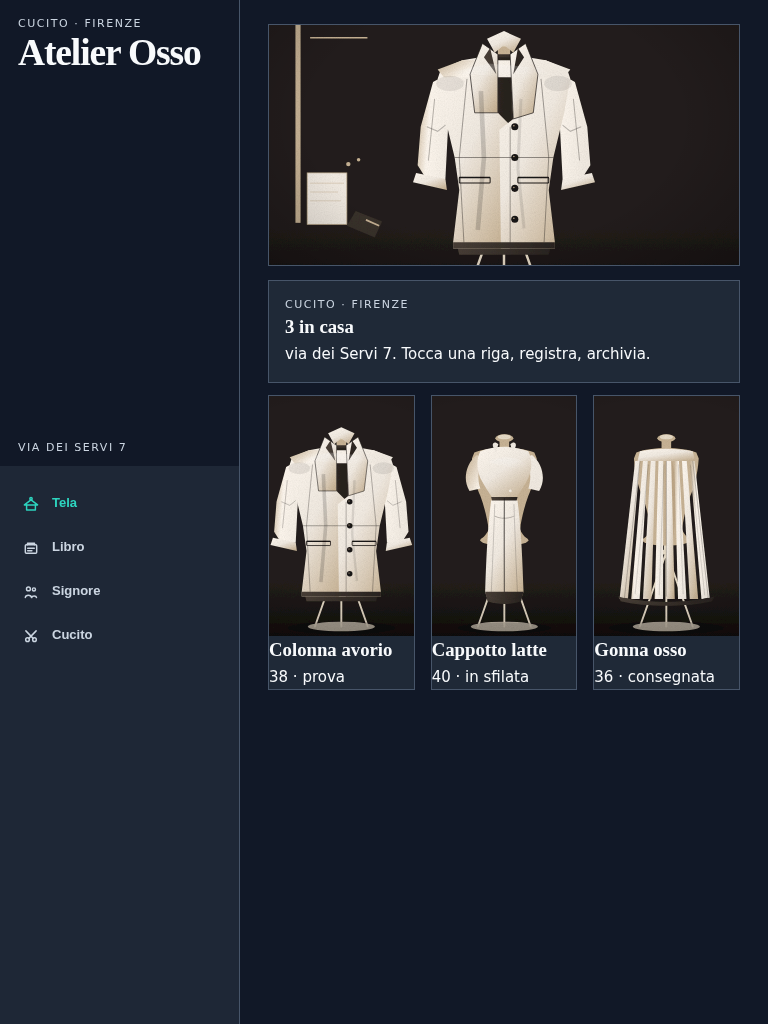
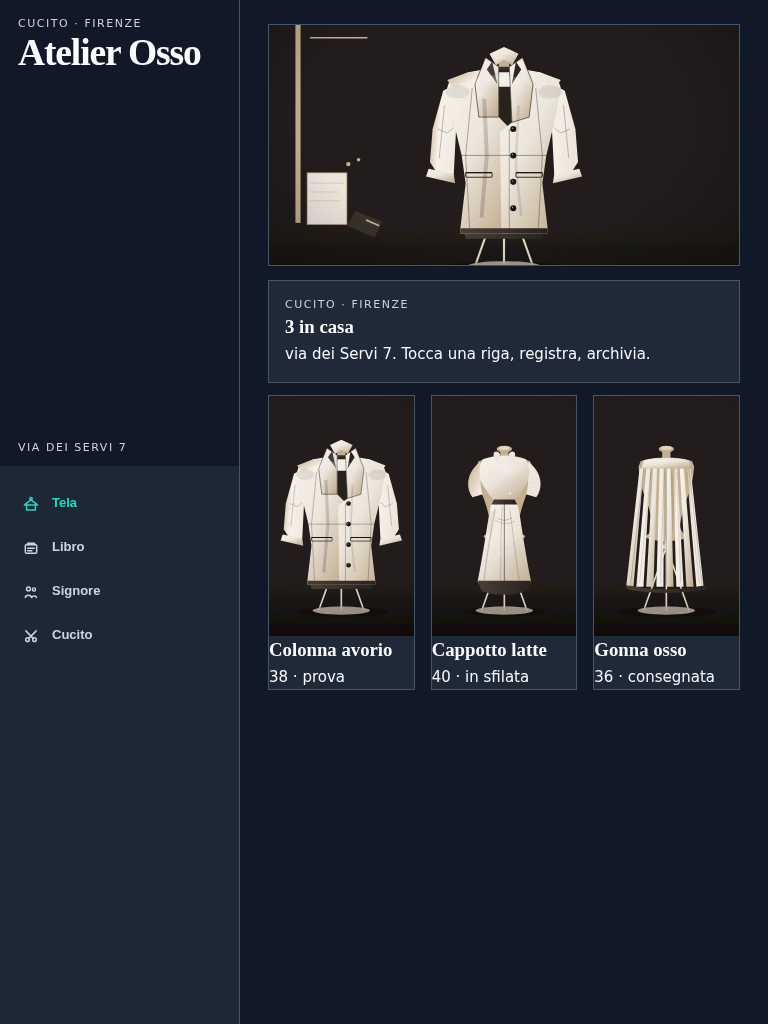
feat: add sartorial drape, terraced olivo and title crop gates
Trousers hang with seat, folds and a real leg gap instead of two bars.
The dress flares at the hip. Olivo is a grove on stone terraces, not a
lollipop canopy. Look titles sit below the sil. Gates fail the 5c3e976
canopy path and bar-legs without claiming photography or Emergent parity.

diff --git a/src/lib/ai/domain-imagery.ts b/src/lib/ai/domain-imagery.ts
@@ -56,6 +56,8 @@ export const GEOMETRIC_REGRESSIONS: RegExp[] = [
   /v210c0 16-8 24-20 24s-22-8-22-24V186/,
   /c20-28 70-40 110-18 16 10 8 28-8 34/,
   /M250 210c-20-36 8-70 46-74 36-4 70 22/,
+  /M214 176 C198 148 224 108 268 118/,
+  /C276 86 328 74 364 108 C408 96 428 138 396 164/,
 ];
 
 export type MaterialSignature = {
@@ -230,24 +232,27 @@ function columnDress(cx: number, s: number, ink: boolean): string {
   const fold = ink ? "#000" : "#fff";
   return `${dressForm(cx, ink)}
   <g data-part="garment" data-garment="dress">
-    <path data-part="sleeve" d="M${cx - 46} 108 C${cx - 64} 122 ${cx - 70} 150 ${cx - 58} 168 L${cx - 40} 164 C${cx - 46} 146 ${cx - 44} 124 ${cx - 32} 114Z M${cx + 46} 108 C${cx + 64} 122 ${cx + 70} 150 ${cx + 58} 168 L${cx + 40} 164 C${cx + 46} 146 ${cx + 44} 124 ${cx + 32} 114Z" fill="url(#slv${s})"/>
-    <path data-part="bodice" d="M${cx - 40} 102 C${cx - 48} 118 ${cx - 46} 138 ${cx - 36} 154 C${cx - 28} 168 ${cx - 22} 176 ${cx - 20} 180 L${cx + 20} 180 C${cx + 22} 176 ${cx + 28} 168 ${cx + 36} 154 C${cx + 46} 138 ${cx + 48} 118 ${cx + 40} 102 C${cx + 16} 92 ${cx - 16} 92 ${cx - 40} 102Z" fill="url(#fab${s})"/>
-    <path d="M${cx - 18} 96 C${cx - 22} 88 ${cx - 16} 84 ${cx - 10} 90 L${cx - 14} 104Z M${cx + 18} 96 C${cx + 22} 88 ${cx + 16} 84 ${cx + 10} 90 L${cx + 14} 104Z" fill="${strap}"/>
-    <path data-part="waist" d="M${cx - 22} 178 L${cx + 22} 178 L${cx + 20} 186 L${cx - 20} 186Z" fill="url(#lin${s})"/>
-    <path data-part="column" d="M${cx - 22} 184 C${cx - 28} 230 ${cx - 30} 280 ${cx - 32} 336 L${cx - 28} 348 L${cx - 14} 344 L${cx} 348 L${cx + 14} 344 L${cx + 28} 348 L${cx + 32} 336 C${cx + 30} 280 ${cx + 28} 230 ${cx + 22} 184Z" fill="url(#fab${s})"/>
-    <g data-part="fold" fill="none" stroke="${fold}" stroke-width="1.3" opacity=".22">
-      <path d="M${cx - 16} 190 C${cx - 18} 250 ${cx - 20} 300 ${cx - 22} 340"/>
-      <path d="M${cx} 186 C${cx - 2} 250 ${cx} 300 ${cx} 346"/>
-      <path d="M${cx + 16} 190 C${cx + 18} 250 ${cx + 20} 300 ${cx + 22} 340"/>
+    <path data-part="sleeve" d="M${cx - 48} 106 C${cx - 70} 122 ${cx - 78} 152 ${cx - 62} 174 L${cx - 42} 168 C${cx - 50} 148 ${cx - 46} 124 ${cx - 34} 112Z M${cx + 48} 106 C${cx + 70} 122 ${cx + 78} 152 ${cx + 62} 174 L${cx + 42} 168 C${cx + 50} 148 ${cx + 46} 124 ${cx + 34} 112Z" fill="url(#slv${s})"/>
+    <path data-part="bodice" d="M${cx - 42} 100 C${cx - 52} 118 ${cx - 50} 140 ${cx - 38} 156 C${cx - 28} 172 ${cx - 22} 178 ${cx - 18} 182 L${cx + 18} 182 C${cx + 22} 178 ${cx + 28} 172 ${cx + 38} 156 C${cx + 50} 140 ${cx + 52} 118 ${cx + 42} 100 C${cx + 16} 90 ${cx - 16} 90 ${cx - 42} 100Z" fill="url(#fab${s})"/>
+    <path d="M${cx - 20} 96 C${cx - 24} 86 ${cx - 16} 80 ${cx - 8} 90 L${cx - 14} 106Z M${cx + 20} 96 C${cx + 24} 86 ${cx + 16} 80 ${cx + 8} 90 L${cx + 14} 106Z" fill="${strap}"/>
+    <path data-part="waist" d="M${cx - 20} 178 L${cx + 20} 178 L${cx + 26} 190 L${cx - 26} 190Z" fill="url(#lin${s})"/>
+    <path data-part="column" d="M${cx - 26} 188 C${cx - 34} 230 ${cx - 40} 278 ${cx - 52} 338 L${cx - 40} 352 L${cx - 16} 346 L${cx} 354 L${cx + 16} 346 L${cx + 40} 352 L${cx + 52} 338 C${cx + 40} 278 ${cx + 34} 230 ${cx + 26} 188Z" fill="url(#fab${s})"/>
+    <path data-part="hip" d="M${cx - 28} 200 C${cx - 36} 230 ${cx - 32} 250 ${cx - 24} 258 L${cx + 24} 258 C${cx + 32} 250 ${cx + 36} 230 ${cx + 28} 200Z" fill="url(#slv${s})" opacity=".35"/>
+    <g data-part="fold">
+      <path d="M${cx - 18} 196 C${cx - 28} 250 ${cx - 36} 300 ${cx - 40} 342" fill="none" stroke="${fold}" stroke-width="2.4" opacity=".18"/>
+      <path d="M${cx - 4} 192 C${cx - 8} 250 ${cx - 6} 310 ${cx - 8} 348" fill="none" stroke="${fold}" stroke-width="1.6" opacity=".2"/>
+      <path d="M${cx + 10} 194 C${cx + 18} 250 ${cx + 24} 305 ${cx + 30} 344" fill="none" stroke="${fold}" stroke-width="2" opacity=".16"/>
+      <path d="M${cx + 20} 220 C${cx + 8} 228 ${cx - 8} 226 ${cx - 18} 218" fill="none" stroke="${stitch}" stroke-width="1" opacity=".35"/>
+      <path d="M${cx - 22} 280 C${cx - 10} 292 ${cx + 12} 288 ${cx + 24} 276" fill="url(#slv${s})" opacity=".2"/>
     </g>
-    <path data-part="seam" d="M${cx} 180 v166" fill="none" stroke="${stitch}" stroke-width="1"/>
-    <path d="M${cx - 16} 210 C${cx} 218 ${cx + 16} 210 ${cx + 16} 210" fill="none" stroke="${stitch}" stroke-width="1" opacity=".45"/>
-    <path data-part="hem" d="M${cx - 32} 336 L${cx - 28} 352 C${cx - 10} 358 ${cx + 10} 358 ${cx + 28} 352 L${cx + 32} 336Z" fill="url(#lin${s})"/>
-    <path data-part="lining" d="M${cx - 26} 344 C${cx - 8} 352 ${cx + 8} 352 ${cx + 26} 344" fill="none" stroke="url(#lin${s})" stroke-width="3"/>
-    ${[168, 196, 224].map((y) => `<circle cx="${cx + 10}" cy="${y}" r="2.3" fill="${strap}"/>`).join("")}
-    <path d="M${cx - 28} 120 C${cx} 104 ${cx + 36} 112 ${cx + 44} 136" fill="url(#she${s})"/>
+    <path data-part="seam" d="M${cx} 182 v166" fill="none" stroke="${stitch}" stroke-width="1"/>
+    <path d="M${cx - 14} 214 C${cx} 224 ${cx + 14} 214 ${cx + 14} 214" fill="none" stroke="${stitch}" stroke-width="1" opacity=".45"/>
+    <path data-part="hem" d="M${cx - 52} 336 L${cx - 44} 356 C${cx - 16} 366 ${cx + 16} 366 ${cx + 44} 356 L${cx + 52} 336Z" fill="url(#lin${s})"/>
+    <path data-part="lining" d="M${cx - 40} 348 C${cx - 12} 360 ${cx + 12} 360 ${cx + 40} 348" fill="none" stroke="url(#lin${s})" stroke-width="3.4"/>
+    ${[166, 198, 228].map((y) => `<circle cx="${cx + 11}" cy="${y}" r="2.4" fill="${strap}"/>`).join("")}
+    <path d="M${cx - 30} 118 C${cx} 100 ${cx + 38} 110 ${cx + 48} 138" fill="url(#she${s})"/>
   </g>
-  <ellipse cx="${cx}" cy="396" rx="78" ry="9" fill="#000" opacity=".18"/>`;
+  <ellipse cx="${cx}" cy="396" rx="82" ry="9" fill="#000" opacity=".18"/>`;
 }
 
 function hangTrousers(cx: number, s: number, ink: boolean): string {
@@ -255,34 +260,49 @@ function hangTrousers(cx: number, s: number, ink: boolean): string {
   const wood = ink ? "#e8dcc8" : "#3a322c";
   const stitch = ink ? "#1a1614" : "#c9b496";
   const fold = ink ? "#000" : "#fff";
+  const shadow = ink ? "#000" : "#1a1614";
   return `<g data-part="garment" data-garment="trousers">
     <g data-part="hanger">
-      <path d="M${cx} 42 C${cx + 18} 28 ${cx + 28} 44 ${cx + 22} 58" fill="none" stroke="${hook}" stroke-width="3.4" stroke-linecap="round"/>
-      <path d="M${cx - 78} 70 L${cx} 58 L${cx + 78} 70 L${cx + 70} 82 H${cx - 70}Z" fill="${wood}"/>
-      <path d="M${cx - 70} 82 H${cx + 70}" stroke="${hook}" stroke-width="1.2" opacity=".4"/>
+      <path d="M${cx} 36 C${cx + 16} 22 ${cx + 30} 40 ${cx + 22} 56" fill="none" stroke="${hook}" stroke-width="3.6" stroke-linecap="round"/>
+      <path d="M${cx - 92} 72 L${cx} 54 L${cx + 92} 72 L${cx + 80} 88 H${cx - 80}Z" fill="${wood}"/>
+      <path d="M${cx - 70} 78 L${cx} 64 L${cx + 70} 78" fill="none" stroke="${hook}" stroke-width="1.2" opacity=".35"/>
+      <path d="M${cx - 80} 88 H${cx + 80}" stroke="${shadow}" stroke-width="2" opacity=".2"/>
     </g>
-    <path data-part="waistband" d="M${cx - 58} 84 H${cx + 58} V102 C${cx + 36} 108 ${cx + 16} 110 ${cx} 110 C${cx - 16} 110 ${cx - 36} 108 ${cx - 58} 102Z" fill="url(#fab${s})"/>
-    ${[-46, -24, -6, 6, 24, 46].map((dx) => `<rect x="${cx + dx - 2}" y="88" width="4" height="12" rx="0.8" fill="${hook}" opacity=".75"/>`).join("")}
-    <path data-part="fly" d="M${cx} 102 V142 C${cx - 4} 148 ${cx - 8} 152 ${cx - 12} 154" fill="none" stroke="${stitch}" stroke-width="1.2"/>
+    <path data-part="waistband" d="M${cx - 70} 86 H${cx + 70} V108 C${cx + 42} 118 ${cx + 18} 122 ${cx} 122 C${cx - 18} 122 ${cx - 42} 118 ${cx - 70} 108Z" fill="url(#fab${s})"/>
+    <path d="M${cx - 70} 86 H${cx + 70} V94 H${cx - 70}Z" fill="url(#slv${s})" opacity=".55"/>
+    ${[-56, -34, -12, 12, 34, 56].map((dx) => `<rect x="${cx + dx - 2.4}" y="90" width="4.8" height="14" rx="0.8" fill="${hook}" opacity=".8"/>`).join("")}
+    <path data-part="seat" d="M${cx - 68} 108 C${cx - 74} 128 ${cx - 70} 148 ${cx - 54} 168 C${cx - 28} 186 ${cx + 28} 186 ${cx + 54} 168 C${cx + 70} 148 ${cx + 74} 128 ${cx + 68} 108 C${cx + 40} 120 ${cx - 40} 120 ${cx - 68} 108Z" fill="url(#fab${s})"/>
+    <path d="M${cx - 40} 124 C${cx - 20} 148 ${cx + 20} 148 ${cx + 40} 124" fill="none" stroke="${stitch}" stroke-width="1.1" opacity=".45"/>
+    <path data-part="fly" d="M${cx} 108 V150 C${cx - 6} 158 ${cx - 12} 164 ${cx - 16} 168" fill="none" stroke="${stitch}" stroke-width="1.3"/>
     <g data-part="leg">
-      <path d="M${cx - 56} 104 C${cx - 54} 112 ${cx - 40} 118 ${cx - 18} 120 L${cx - 16} 168 C${cx - 18} 220 ${cx - 22} 280 ${cx - 20} 336 L${cx - 24} 352 H${cx - 62} L${cx - 58} 336 C${cx - 64} 270 ${cx - 70} 200 ${cx - 62} 148 C${cx - 60} 128 ${cx - 58} 112 ${cx - 56} 104Z" fill="url(#fab${s})"/>
-      <path data-part="crease" d="M${cx - 38} 122 C${cx - 40} 200 ${cx - 42} 280 ${cx - 40} 340" fill="none" stroke="${stitch}" stroke-width="1.15"/>
-      <path data-part="cuff" d="M${cx - 64} 348 H${cx - 18} V360 H${cx - 64}Z" fill="url(#lin${s})"/>
-      <path data-part="fold" d="M${cx - 54} 180 C${cx - 48} 188 ${cx - 42} 186 ${cx - 36} 178" fill="none" stroke="${fold}" stroke-width="1.2" opacity=".2"/>
+      <path d="M${cx - 68} 108 C${cx - 72} 130 ${cx - 64} 150 ${cx - 52} 168 L${cx - 18} 176 C${cx - 22} 230 ${cx - 28} 286 ${cx - 22} 340 L${cx - 30} 358 H${cx - 78} L${cx - 70} 340 C${cx - 84} 270 ${cx - 90} 210 ${cx - 78} 160 C${cx - 74} 136 ${cx - 70} 118 ${cx - 68} 108Z" fill="url(#fab${s})"/>
+      <path d="M${cx - 62} 170 C${cx - 70} 220 ${cx - 66} 280 ${cx - 58} 336" fill="${shadow}" opacity=".12"/>
+      <path data-part="crease" d="M${cx - 44} 172 C${cx - 46} 230 ${cx - 50} 290 ${cx - 46} 346" fill="none" stroke="${stitch}" stroke-width="1.25"/>
+      <path data-part="drape" d="M${cx - 74} 210 C${cx - 62} 218 ${cx - 50} 214 ${cx - 40} 204" fill="none" stroke="${fold}" stroke-width="2.2" opacity=".22"/>
+      <path d="M${cx - 76} 268 C${cx - 60} 280 ${cx - 46} 274 ${cx - 36} 262" fill="url(#slv${s})" opacity=".25"/>
+      <path data-part="cuff" d="M${cx - 80} 350 H${cx - 24} V366 H${cx - 80}Z" fill="url(#lin${s})"/>
+      <path d="M${cx - 78} 358 H${cx - 28}" stroke="${stitch}" stroke-width="1" opacity=".4"/>
     </g>
     <g data-part="leg">
-      <path d="M${cx + 56} 104 C${cx + 54} 112 ${cx + 40} 118 ${cx + 18} 120 L${cx + 16} 168 C${cx + 18} 220 ${cx + 22} 280 ${cx + 20} 336 L${cx + 24} 352 H${cx + 62} L${cx + 58} 336 C${cx + 64} 270 ${cx + 70} 200 ${cx + 62} 148 C${cx + 60} 128 ${cx + 58} 112 ${cx + 56} 104Z" fill="url(#fab${s})"/>
-      <path data-part="crease" d="M${cx + 38} 122 C${cx + 40} 200 ${cx + 42} 280 ${cx + 40} 340" fill="none" stroke="${stitch}" stroke-width="1.15"/>
-      <path data-part="cuff" d="M${cx + 18} 348 H${cx + 64} V360 H${cx + 18}Z" fill="url(#lin${s})"/>
-      <path data-part="fold" d="M${cx + 54} 180 C${cx + 48} 188 ${cx + 42} 186 ${cx + 36} 178" fill="none" stroke="${fold}" stroke-width="1.2" opacity=".2"/>
+      <path d="M${cx + 68} 108 C${cx + 72} 130 ${cx + 64} 150 ${cx + 52} 168 L${cx + 18} 176 C${cx + 22} 230 ${cx + 28} 286 ${cx + 22} 340 L${cx + 30} 358 H${cx + 78} L${cx + 70} 340 C${cx + 84} 270 ${cx + 90} 210 ${cx + 78} 160 C${cx + 74} 136 ${cx + 70} 118 ${cx + 68} 108Z" fill="url(#fab${s})"/>
+      <path d="M${cx + 40} 176 C${cx + 48} 230 ${cx + 52} 290 ${cx + 46} 336" fill="${shadow}" opacity=".1"/>
+      <path data-part="crease" d="M${cx + 44} 172 C${cx + 46} 230 ${cx + 50} 290 ${cx + 46} 346" fill="none" stroke="${stitch}" stroke-width="1.25"/>
+      <path data-part="drape" d="M${cx + 74} 210 C${cx + 62} 218 ${cx + 50} 214 ${cx + 40} 204" fill="none" stroke="${fold}" stroke-width="2.2" opacity=".22"/>
+      <path d="M${cx + 76} 268 C${cx + 60} 280 ${cx + 46} 274 ${cx + 36} 262" fill="url(#slv${s})" opacity=".25"/>
+      <path data-part="cuff" d="M${cx + 24} 350 H${cx + 80} V366 H${cx + 24}Z" fill="url(#lin${s})"/>
+      <path d="M${cx + 28} 358 H${cx + 78}" stroke="${stitch}" stroke-width="1" opacity=".4"/>
     </g>
+    <path d="M${cx - 8} 168 C${cx} 210 ${cx} 260 ${cx} 300" fill="none" stroke="${shadow}" stroke-width="10" opacity=".08"/>
     <g data-part="pocket">
-      <path d="M${cx - 52} 126 h20 v26 h-20z" fill="none" stroke="${stitch}" stroke-width="1"/>
-      <path d="M${cx + 32} 126 h20 v26 h-20z" fill="none" stroke="${stitch}" stroke-width="1"/>
+      <path d="M${cx - 62} 128 h24 v30 h-24z" fill="none" stroke="${stitch}" stroke-width="1.15"/>
+      <path d="M${cx + 38} 128 h24 v30 h-24z" fill="none" stroke="${stitch}" stroke-width="1.15"/>
+      <path d="M${cx - 62} 128 h24" stroke="${stitch}" stroke-width="2"/>
+      <path d="M${cx + 38} 128 h24" stroke="${stitch}" stroke-width="2"/>
     </g>
-    <path data-part="seam" d="M${cx - 12} 110 C${cx - 8} 128 ${cx - 16} 148 ${cx - 18} 160 M${cx + 12} 110 C${cx + 8} 128 ${cx + 16} 148 ${cx + 18} 160" fill="none" stroke="${stitch}" stroke-width="1"/>
+    <path data-part="seam" d="M${cx - 16} 118 C${cx - 10} 140 ${cx - 20} 160 ${cx - 22} 174 M${cx + 16} 118 C${cx + 10} 140 ${cx + 20} 160 ${cx + 22} 174" fill="none" stroke="${stitch}" stroke-width="1.05"/>
+    <path d="M${cx - 40} 100 C${cx} 88 ${cx + 48} 98 ${cx + 64} 118" fill="url(#she${s})"/>
   </g>
-  <ellipse cx="${cx}" cy="372" rx="108" ry="11" fill="#000" opacity=".14"/>`;
+  <ellipse cx="${cx}" cy="378" rx="118" ry="12" fill="#000" opacity=".16"/>`;
 }
 
 function skirtOnForm(cx: number, s: number, ink: boolean): string {
@@ -335,7 +355,7 @@ function fashionArt(variant: 0 | 1, slot: number, alt: string): string {
             ? hangTrousers(320, s, ink)
             : skirtOnForm(320, s, ink)
           : coatOnForm(320, s, ink);
-  const framed = `<g transform="translate(320 205) scale(1.05) translate(-320 -205)">${subject}</g>`;
+  const framed = `<g transform="translate(320 208) scale(0.9) translate(-320 -208)">${subject}</g>`;
   return wrap(id, alt, `${set}${framed}`, s, defs);
 }
 
@@ -646,26 +666,49 @@ function scenePozzo(): string {
 
 function sceneOlivo(): string {
   return `<g data-part="scene" data-scene="olivo">
-    <rect width="640" height="420" fill="#c9b496"/>
-    <rect y="0" width="640" height="210" fill="#e4d4b4"/>
-    <circle cx="520" cy="70" r="28" fill="#f3efe6" opacity=".55"/>
-    <path d="M0 250 C80 220 180 240 280 230 C400 216 500 250 640 236 V420 H0Z" fill="#6a7a4a"/>
-    <path d="M0 310 C120 290 240 320 400 300 C500 288 580 310 640 304 V420 H0Z" fill="#4a5a32"/>
-    <g data-part="trunk">
-      <path d="M292 400 C286 340 300 280 308 230 C300 200 288 170 296 140" fill="none" stroke="#3a322c" stroke-width="18" stroke-linecap="round"/>
-      <path d="M308 230 C330 210 350 240 346 270" fill="none" stroke="#2a2420" stroke-width="10" stroke-linecap="round"/>
-      <path d="M296 160 C270 150 250 170 246 196" fill="none" stroke="#3a322c" stroke-width="8" stroke-linecap="round"/>
-      <path d="M300 148 C310 120 340 110 360 128" fill="none" stroke="#2a2420" stroke-width="7" stroke-linecap="round"/>
+    <rect width="640" height="420" fill="#d8c4a0"/>
+    <rect y="0" width="640" height="168" fill="#e8d4b0"/>
+    <path d="M0 0 L220 0 L0 140Z" fill="#f4e0b0" opacity=".35"/>
+    <ellipse cx="528" cy="64" r="36" fill="#f6ead8" opacity=".55"/>
+    <g data-part="grove">
+      <path d="M0 150 C80 128 160 148 240 136 C340 122 430 150 640 130 V250 H0Z" fill="#6a7a48"/>
+      <path d="M40 128 C90 96 150 108 186 128 C160 148 90 150 40 128Z" fill="#3d5a28"/>
+      <path d="M200 118 C250 82 330 90 368 124 C340 146 250 148 200 118Z" fill="#4a6a30"/>
+      <path d="M360 122 C420 86 510 96 560 128 C520 150 430 148 360 122Z" fill="#2c4a18"/>
+      <path d="M520 116 C560 88 620 98 640 118 V150 C600 148 560 140 520 116Z" fill="#3d5a28"/>
+      <path d="M80 138 C110 114 150 118 168 136 C150 148 110 150 80 138Z" fill="#5a7a32" opacity=".85"/>
+      <path d="M280 130 C318 104 360 110 380 130 C360 146 318 148 280 130Z" fill="#6a8a40" opacity=".8"/>
+      <path d="M0 186 C120 168 240 190 360 176 C480 162 560 186 640 174 V260 H0Z" fill="#4a5a32"/>
     </g>
-    <g data-part="canopy">
-      <path d="M214 176 C198 148 224 108 268 118 C276 86 328 74 364 108 C408 96 428 138 396 164 C432 176 416 214 368 204 C344 228 286 230 248 206 C216 220 196 200 214 176Z" fill="#2c4a18"/>
-      <path d="M236 158 C228 132 258 112 292 122 C310 98 354 102 368 128 C392 124 402 150 382 166 C360 188 300 192 262 176 C244 186 230 176 236 158Z" fill="#3d5a1f"/>
-      <path d="M250 132 C246 112 276 96 308 108 C336 92 368 108 362 132 C348 150 300 154 272 142 C258 150 248 144 250 132Z" fill="#4a6a28"/>
-      <path d="M220 186 C212 170 236 160 258 168 C248 186 228 196 220 186Z" fill="#5a7a32" opacity=".9"/>
-      <path d="M352 186 C344 168 376 160 390 176 C382 194 360 198 352 186Z" fill="#2c4a18" opacity=".85"/>
+    <g data-part="trunk" fill="none" stroke="#3a2a1c" stroke-linecap="round">
+      <path d="M96 250 C92 210 100 176 94 150" stroke-width="7"/>
+      <path d="M188 248 C184 206 176 168 182 142" stroke-width="6"/>
+      <path d="M268 246 C274 204 266 170 270 146" stroke-width="8"/>
+      <path d="M356 250 C350 208 360 172 348 144" stroke-width="7"/>
+      <path d="M454 248 C460 206 448 168 456 140" stroke-width="6"/>
+      <path d="M546 252 C540 214 552 176 544 148" stroke-width="5"/>
     </g>
-    <path d="M40 340 C90 320 140 350 190 338 C240 326 280 350 320 340" fill="none" stroke="#3a322c" stroke-width="2" opacity=".25"/>
-    <path d="M80 360 C70 340 90 330 100 350" fill="none" stroke="#5a6a40" stroke-width="2" opacity=".4"/>
+    <g data-part="terrace">
+      <path d="M0 248 L640 236 V420 H0Z" fill="#c4b090"/>
+      <path d="M0 292 L640 274 V420 H0Z" fill="#b8a078"/>
+      <path d="M0 248 L640 236 V268 L0 282Z" fill="#d8c4a0"/>
+      <path d="M0 292 L640 274 V304 L0 322Z" fill="#9a8866"/>
+      <g fill="none" stroke="#6a5e52" stroke-width="1.2" opacity=".45">
+        <path d="M0 262 L640 248"/>
+        <path d="M0 308 L640 290"/>
+        <path d="M80 248 v34M180 246 v38M300 244 v42M430 242 v44M540 240 v46"/>
+      </g>
+      <path d="M0 338 C90 324 180 346 280 332 C400 316 520 340 640 326 V420 H0Z" fill="#8a7a5a"/>
+      <path d="M40 360 C70 348 110 352 130 366 C110 378 70 376 40 360Z" fill="#6a5e52" opacity=".5"/>
+      <path d="M400 370 C440 354 500 358 540 374 C500 388 440 386 400 370Z" fill="#6a5e52" opacity=".4"/>
+    </g>
+    <g data-part="vessel">
+      <ellipse cx="148" cy="392" rx="36" ry="10" fill="#000" opacity=".18"/>
+      <path d="M124 360 C118 378 128 392 148 392 C168 392 178 378 172 360 Z" fill="#9a4a28"/>
+      <ellipse cx="148" cy="360" rx="24" ry="8" fill="#6a3220"/>
+      <ellipse cx="148" cy="358" rx="16" ry="5" fill="#c47848" opacity=".5"/>
+    </g>
+    <path d="M0 0 L180 0 L0 120Z" fill="#f4e0b0" opacity=".2"/>
   </g>`;
 }
 
@@ -779,11 +822,14 @@ function editorialArt(variant: 0 | 1, slot: number, alt: string): string {
   }
   if (s === 3) {
     const clips = `${analog}<clipPath id="cs0${s}"><rect x="40" y="40" width="270" height="176"/></clipPath><clipPath id="cs1${s}"><rect x="330" y="40" width="270" height="176"/></clipPath><clipPath id="cs2${s}"><rect x="40" y="236" width="270" height="148"/></clipPath><clipPath id="cs3${s}"><rect x="330" y="236" width="270" height="148"/></clipPath>`;
-    return wrap(id, alt, `<rect width="640" height="420" fill="#e8e0d2"/>${sprockets()}
-      <g clip-path="url(#cs0${s})"><g transform="translate(40 40) scale(0.42)">${scenePozzo()}</g></g><rect x="40" y="40" width="270" height="176" fill="none" stroke="#ddd4c6"/>
-      <g clip-path="url(#cs1${s})"><g transform="translate(330 40) scale(0.42)">${sceneOlivo()}</g></g><rect x="330" y="40" width="270" height="176" fill="none" stroke="#ddd4c6"/>
-      <g clip-path="url(#cs2${s})"><g transform="translate(40 236) scale(0.42)">${sceneFienile()}</g></g><rect x="40" y="236" width="270" height="148" fill="none" stroke="#ddd4c6"/>
-      <g clip-path="url(#cs3${s})"><g transform="translate(330 236) scale(0.42)">${sceneTorchio()}</g></g><rect x="330" y="236" width="270" height="148" fill="none" stroke="#ddd4c6"/>
+    const rebate = (x: number, y: number, w: number, h: number) =>
+      `<g data-part="frame"><rect x="${x}" y="${y}" width="${w}" height="${h}" fill="none" stroke="#1a1814" stroke-width="2"/><rect x="${x + 8}" y="${y + h - 18}" width="28" height="10" fill="#1a1814"/><rect x="${x + w - 48}" y="${y + 8}" width="36" height="6" fill="#9a4a28"/></g>`;
+    return wrap(id, alt, `<rect width="640" height="420" fill="#d8cbb8"/>${sprockets()}
+      <rect x="24" y="24" width="592" height="372" fill="#1a1814"/>
+      <g clip-path="url(#cs0${s})"><g transform="translate(40 40) scale(0.42)">${scenePozzo()}</g></g>${rebate(40, 40, 270, 176)}
+      <g clip-path="url(#cs1${s})"><g transform="translate(330 40) scale(0.42)">${sceneOlivo()}</g></g>${rebate(330, 40, 270, 176)}
+      <g clip-path="url(#cs2${s})"><g transform="translate(40 236) scale(0.42)">${sceneFienile()}</g></g>${rebate(40, 236, 270, 148)}
+      <g clip-path="url(#cs3${s})"><g transform="translate(330 236) scale(0.42)">${sceneTorchio()}</g></g>${rebate(330, 236, 270, 148)}
       <path d="M40 400h560" stroke="#9a4a28" stroke-width="5"/>`, s, clips);
   }
   const clips = `<clipPath id="edc${s}"><rect x="36" y="36" width="380" height="288"/></clipPath>${analog}`;

diff --git a/src/lib/ai/compose-product-browser.test.ts b/src/lib/ai/compose-product-browser.test.ts
@@ -259,7 +259,34 @@ describe("graphic pipeline visual QA D/T/M", () => {
                   const title = el.querySelector("h2")?.textContent || "";
                   const garment = el.querySelector("[data-garment]")?.getAttribute("data-garment") || "";
                   const h2 = el.querySelector("h2")?.getBoundingClientRect();
-                  return { h: b.height, title, garment, titleH: h2?.height || 0, titleW: h2?.width || 0, top: b.top, left: b.left, right: b.right, bottom: b.bottom };
+                  const parts = [...el.querySelectorAll("[data-part]")].map((n) => n.getAttribute("data-part") || "");
+                  const legs = [...el.querySelectorAll("[data-part='leg']")].map((n) => {
+                    try {
+                      const box = (n as SVGGraphicsElement).getBBox();
+                      return { x: box.x, w: box.width };
+                    } catch {
+                      return { x: 0, w: 0 };
+                    }
+                  });
+                  const sil = el.querySelector(".sil")?.getBoundingClientRect();
+                  const svg = el.querySelector("svg")?.getBoundingClientRect();
+                  return {
+                    h: b.height,
+                    title,
+                    garment,
+                    parts,
+                    legs,
+                    titleH: h2?.height || 0,
+                    titleW: h2?.width || 0,
+                    titleTop: h2?.top || 0,
+                    silBottom: sil?.bottom || 0,
+                    silH: sil?.height || 0,
+                    svgH: svg?.height || 0,
+                    top: b.top,
+                    left: b.left,
+                    right: b.right,
+                    bottom: b.bottom,
+                  };
                 });
                 const tickets = [...document.querySelectorAll(".ticket")].map((el) => {
                   const title = el.querySelector("h2")?.textContent || "";
@@ -271,7 +298,8 @@ describe("graphic pipeline visual QA D/T/M", () => {
                   const title = el.querySelector("h2")?.textContent || "";
                   const scene = el.querySelector("[data-scene]")?.getAttribute("data-scene") || "";
                   const h2 = el.querySelector("h2")?.getBoundingClientRect();
-                  return { title, scene, titleH: h2?.height || 0, titleW: h2?.width || 0 };
+                  const parts = [...el.querySelectorAll("[data-part]")].map((n) => n.getAttribute("data-part") || "");
+                  return { title, scene, parts, titleH: h2?.height || 0, titleW: h2?.width || 0 };
                 });
                 let shoulderWaist = { shoulder: 0, waist: 0 };
                 const shoulder = svg.querySelector("[data-part='shoulder']") as SVGGraphicsElement | null;
@@ -356,6 +384,12 @@ describe("graphic pipeline visual QA D/T/M", () => {
                 const looks = material.looks || [];
                 for (const look of looks) {
                   assert.ok(look.titleH >= 14 && look.titleW >= 48, `${fix.id}/${vp} look title unreadable ${look.title} ${look.titleW}x${look.titleH}`);
+                  if (look.silBottom && look.titleTop) {
+                    assert.ok(
+                      look.titleTop + 1 >= look.silBottom - 8,
+                      `${fix.id}/${vp} title overlay on ${look.garment} (title ${look.titleTop} sil ${look.silBottom})`,
+                    );
+                  }
                   const expected =
                     /cappotto/i.test(look.title) ? "coat"
                     : /abito|colonna/i.test(look.title) ? "dress"
@@ -364,6 +398,22 @@ describe("graphic pipeline visual QA D/T/M", () => {
                     : "";
                   if (expected) {
                     assert.equal(look.garment, expected, `${fix.id}/${vp} ${look.title} -> ${look.garment}`);
+                  }
+                  if (look.garment === "trousers") {
+                    assert.ok((look.parts || []).includes("seat"), `${fix.id}/${vp} trousers missing seat`);
+                    assert.ok((look.parts || []).includes("drape"), `${fix.id}/${vp} trousers missing drape`);
+                    if ((look.legs || []).length >= 2) {
+                      const [a, b] = look.legs;
+                      const left = a!.x <= b!.x ? a! : b!;
+                      const right = a!.x <= b!.x ? b! : a!;
+                      assert.ok(
+                        right.x > left.x + left.w * 0.22,
+                        `${fix.id}/${vp} trousers look legs gap ${JSON.stringify(look.legs)}`,
+                      );
+                    }
+                  }
+                  if (look.garment === "dress") {
+                    assert.ok((look.parts || []).includes("hip") && (look.parts || []).includes("column"), `${fix.id}/${vp} dress parts`);
                   }
                 }
                 assert.ok(new Set(looks.map((l) => l.garment).filter(Boolean)).size >= Math.min(3, looks.length), `${fix.id}/${vp} garment diversity`);
@@ -456,6 +506,11 @@ describe("graphic pipeline visual QA D/T/M", () => {
                     : /fienile/i.test(p.title) ? "fienile"
                     : "";
                   if (expected) assert.equal(p.scene, expected, `${fix.id}/${vp} ${p.title} -> ${p.scene}`);
+                  if (p.scene === "olivo") {
+                    assert.ok((p.parts || []).includes("grove"), `${fix.id}/${vp} olivo missing grove`);
+                    assert.ok((p.parts || []).includes("terrace"), `${fix.id}/${vp} olivo missing terrace`);
+                    assert.equal((p.parts || []).includes("canopy"), false, `${fix.id}/${vp} olivo still a lollipop canopy`);
+                  }
                 }
                 if (plates.length >= 3) {
                   assert.equal(new Set(plates.map((p) => p.scene)).size, plates.length, `${fix.id}/${vp} scene diversity`);

diff --git a/src/lib/ai/domain-imagery.test.ts b/src/lib/ai/domain-imagery.test.ts
@@ -100,12 +100,13 @@ describe("domain imagery", () => {
     assert.ok(coat.paths >= 22, `coat paths ${coat.paths}`);
     const dress = materialSignature(domainIllustration("fashion", 0, "abito", 1));
     assert.equal(dress.garment, "dress");
-    assert.ok(dress.parts.includes("bodice") && dress.parts.includes("column"), `dress parts ${dress.parts}`);
+    assert.ok(dress.parts.includes("bodice") && dress.parts.includes("column") && dress.parts.includes("hip"), `dress parts ${dress.parts}`);
     const trousers = materialSignature(domainIllustration("fashion", 0, "pantalone", 2));
     assert.equal(trousers.garment, "trousers");
-    for (const part of ["waistband", "crease", "leg", "cuff", "hanger"]) {
+    for (const part of ["waistband", "crease", "leg", "cuff", "hanger", "seat", "drape"]) {
       assert.ok(trousers.parts.includes(part), `trousers missing ${part}`);
     }
+    assert.ok(trousers.paths >= 16, `trousers paths ${trousers.paths}`);
     const ossoSkirt = materialSignature(domainIllustration("fashion", 1, "gonna", 2));
     assert.equal(ossoSkirt.garment, "skirt");
     assert.ok(ossoSkirt.parts.includes("pleat") && ossoSkirt.parts.includes("waistband"));
@@ -151,8 +152,13 @@ describe("domain imagery", () => {
     assert.ok(cover.parts.includes("type"));
     const olivoPlate = materialSignature(domainIllustration("editorial", 0, "olivo", 1));
     assert.ok(olivoPlate.scenes.includes("olivo"));
+    assert.ok(olivoPlate.parts.includes("grove") && olivoPlate.parts.includes("terrace"), `olivo parts ${olivoPlate.parts}`);
+    const oldOlivo = "M214 176 C198 148 224 108 268 118";
+    assert.ok(GEOMETRIC_REGRESSIONS.some((r) => r.test(oldOlivo)));
+    assert.equal(GEOMETRIC_REGRESSIONS.some((r) => r.test(domainIllustration("editorial", 0, "olivo", 1))), false);
     const sheet = materialSignature(domainIllustration("editorial", 0, "lastre", 3));
     assert.ok(sheet.scenes.includes("pozzo") && sheet.scenes.includes("olivo") && sheet.scenes.includes("fienile") && sheet.scenes.includes("torchio"));
+    assert.ok(sheet.parts.includes("frame"), `contact sheet frames ${sheet.parts}`);
     const oldCapsule = "c16-28 48-40 72-28 24-12 56 0 72 28";
     assert.ok(GEOMETRIC_REGRESSIONS.some((r) => r.test(oldCapsule)));
     assert.equal(GEOMETRIC_REGRESSIONS.some((r) => r.test(domainIllustration("fashion", 0, "c", 0))), false);

diff --git a/src/lib/ai/compose-product.ts b/src/lib/ai/compose-product.ts
@@ -671,6 +671,7 @@ main{flex:1;min-height:0;overflow-y:auto;padding:8px 16px 24px;-webkit-overflow-
 .card h2,.look h2,.slot h2,.ticket h2,.room h2,.deal h2,.plate h2{font-family:var(--display);font-size:1.25rem;font-weight:600;margin:0 0 4px;letter-spacing:-.03em}
 .look{padding:0;overflow:hidden}
 .look h2,.look p{padding:0 14px}
+.look h2{padding-top:12px}
 .look p{padding-bottom:14px}
 ${visualKitCss(tokens, grammar)}
 </style>
